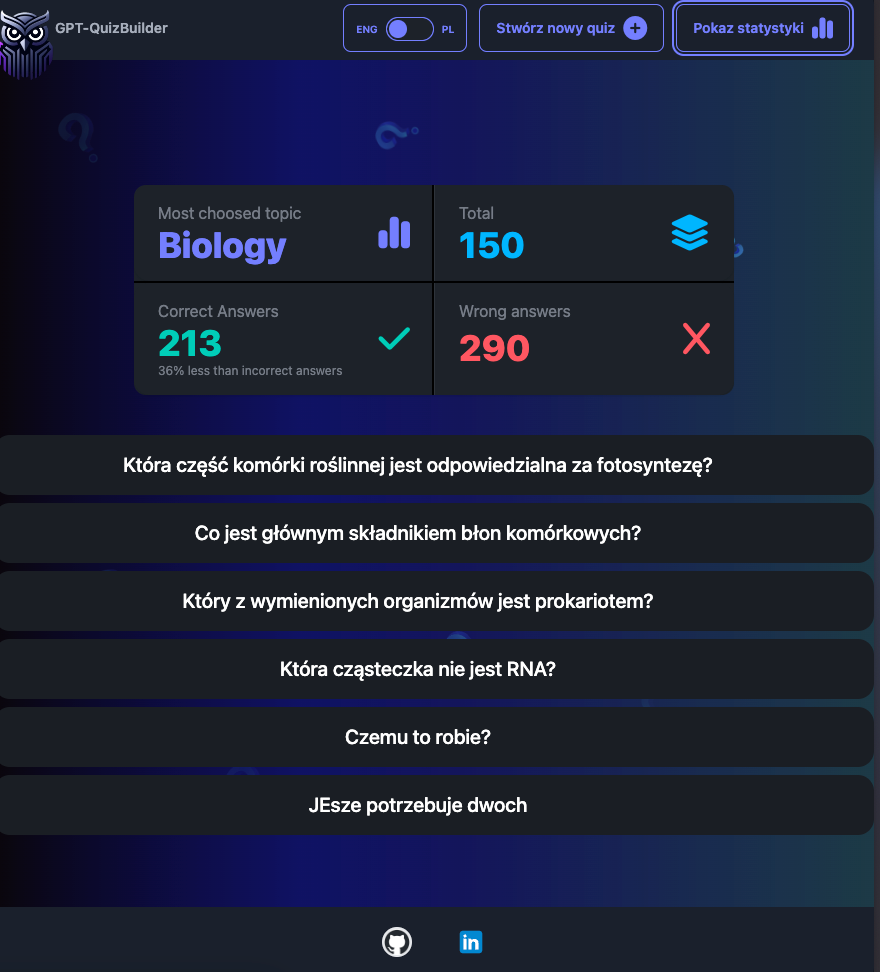
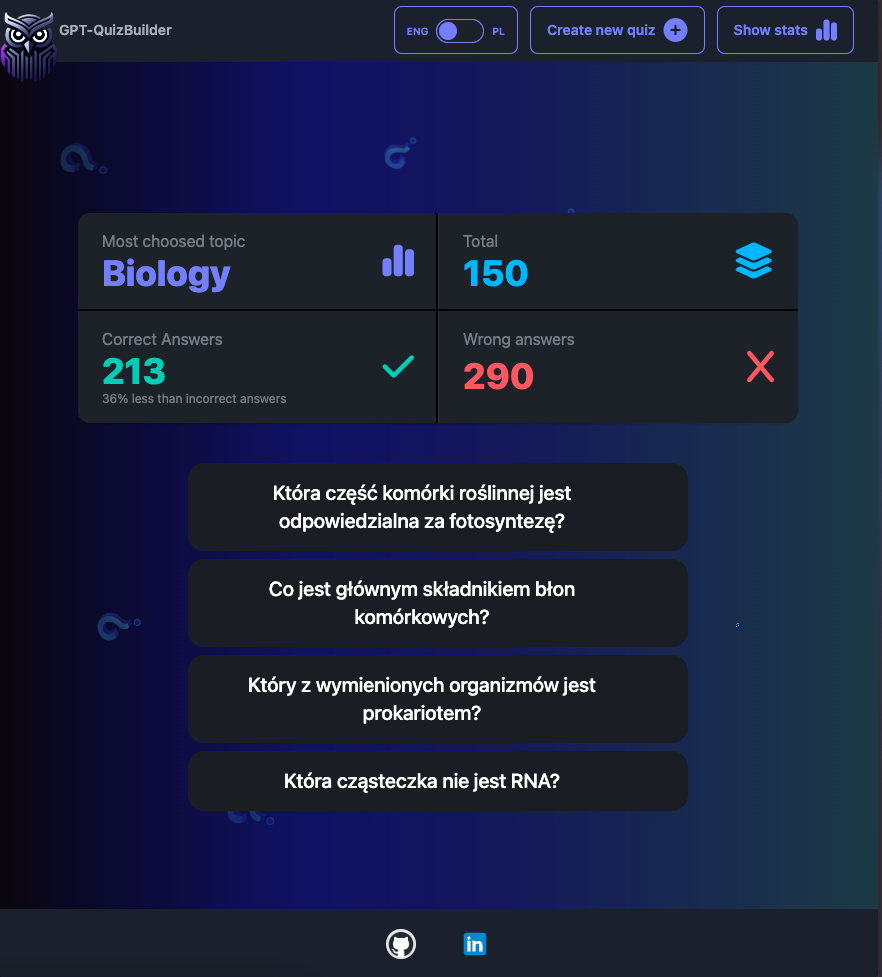
updt readme

diff --git a/src/components/Stats/Stats.tsx b/src/components/Stats/Stats.tsx
@@ -28,7 +28,7 @@ export default function Stats() {
   return (
     <div className=" relative mt-[10vh] flex flex-col rounded-xl bg-[#1d232a]">
       <div className="stats stats-vertical shadow md:stats-horizontal">
-        <div className="stat md:w-[300px]">
+        <div className="stat md:w-[360px]">
           <div className="stat-figure text-4xl text-primary">
             <i className="fa-solid fa-chart-simple"></i>
           </div>
@@ -36,7 +36,7 @@ export default function Stats() {
           <div className="stat-value text-primary">{stats[0].mostChoosedTopic}</div>
         </div>
 
-        <div className="stat md:w-[300px]">
+        <div className="stat md:w-[360px]">
           <div className="stat-figure text-4xl text-info">
             <i className="fa-solid fa-layer-group"></i>
           </div>
@@ -49,7 +49,7 @@ export default function Stats() {
       <div className="rotate-90deg absolute right-[50%] hidden h-[100%] w-[2px] bg-[black] md:block "></div>
 
       <div className="stats stats-vertical shadow md:stats-horizontal">
-        <div className="stat md:w-[300px] ">
+        <div className="stat md:w-[360px] ">
           <div className="stat-figure text-4xl text-accent">
             <i className="fa-solid fa-check"></i>
           </div>
@@ -59,7 +59,7 @@ export default function Stats() {
             {difference}% {isLessThanCorrect ? t(`global:nav:correctDescr2`) : t(`global:nav:correctDescr`)}
           </div>
         </div>
-        <div className="stat w-[300px]">
+        <div className="stat w-[360px]">
           <div className="stat-figure text-4xl text-error">
             <i className="fa-solid fa-x"></i>
           </div>

diff --git a/src/components/SavedQuestionsList/SavedQuestionsList.tsx b/src/components/SavedQuestionsList/SavedQuestionsList.tsx
@@ -30,20 +30,11 @@ Zatem w kontekście biologicznym, prokarioty można porównać do podstawowych b
 
 Można to porównać do różnicy między książką a listonoszem. DNA to jak książka, która przechowuje całą historię (informacje genetyczne). RNA natomiast to listonosz, który dostarcza fragmenty tej historii (informacje genetyczne z DNA) tam, gdzie są aktualnie potrzebne (do rybosomów do produkcji białek).`,
     },
-    {
-      question: 'Czemu to robie?',
-      description:
-        ' Lorem ipsum dolor sit amet consectetur adipisicing elit. Eum perferendis laudantium et assumenda iusto eveniet saepe facilis earum. Excepturi accusantium tenetur, commodi magnam fugit, officia incidunt mollitia, a labore eum maxime. Perspiciatis nihil optio illum explicabo quo magnam iure iste ipsa, alias id sed, nostrum maiores! Obcaecati aliquid quam iusto?',
-    },
-    {
-      question: 'JEsze potrzebuje dwoch',
-      description:
-        ' Lorem ipsum dolor sit amet consectetur adipisicing elit. Eum perferendis laudantium et assumenda iusto eveniet saepe facilis earum. Excepturi accusantium tenetur, commodi magnam fugit, officia incidunt mollitia, a labore eum maxime. Perspiciatis nihil optio illum explicabo quo magnam iure iste ipsa, alias id sed, nostrum maiores! Obcaecati aliquid quam iusto?',
-    },
+   
   ]);
 
   return (
-    <div className="my-10 flex max-w-[1000px] flex-col gap-2">
+    <div className="my-10 flex max-w-[500px] flex-col gap-2">
       {savedQuestions.map((question, key) => (
         <div key={key} className="collapse bg-base-200">
           <input type="checkbox" />

diff --git a/src/components/Nav/Nav.tsx b/src/components/Nav/Nav.tsx
@@ -1,13 +1,13 @@
 import { Wrapper } from '../MainLayout/Wrapper/Wrapper';
 import { NavLink } from 'react-router-dom';
-// import { useTranslation } from 'react-i18next';
+import { useTranslation } from 'react-i18next';
 import { LanguageSwitcher } from './LanguageSwitcher/LanguageSwitcher';
 import LOGO_ICON from '../../../public/gptquizlogo.png';
 import Hamburger from './Hamburger/Hamburger';
 import { useState } from 'react';
 
 export const Nav = () => {
-  // const { t } = useTranslation();
+  const { t } = useTranslation();
   const [isActive, setIsActive] = useState(false);
 
   return (
@@ -34,11 +34,11 @@ export const Nav = () => {
 
               <NavLink className="btn btn-outline btn-primary ml-3 mr-3 text-center" to={'form'}>
                 {' '}
-                Stwórz nowy quiz <i className="fa-solid fa-circle-plus text-2xl"></i>
+                {t('global:nav:createNewQuiz')} <i className="fa-solid fa-circle-plus text-2xl"></i>
               </NavLink>
               <NavLink className="btn btn-outline btn-primary text-center" to={'stats'}>
                 {' '}
-                Pokaz statystyki <i className="fa-solid fa-chart-simple text-2xl"></i>
+                {t('global:nav:showStats')} <i className="fa-solid fa-chart-simple text-2xl"></i>
               </NavLink>
             </div>
             <div className="md:hidden">

diff --git a/readme.md b/readme.md
@@ -1,6 +1,14 @@
-## GPT-QuizBuilder <img width="50%" alt="logo" src="./public/gptquizlogo.png">
+## GPT-QuizBuilder 
 
-**In progress:** ![74%](https://progress-bar.dev/74)
+<table>
+  <tr>
+    <td><img width="150" alt="logo" src="./public/gptquizlogo.png"></td>
+    <td>
+      <p>GPT-QuizBuilder is a project aimed at creating personalized quizzes for educational purposes by connecting to the OpenAI API. Users will be able to select the topic, duration, and difficulty level of the quiz.</p>
+      <p><strong>In progress:</strong> ![74%](https://progress-bar.dev/74)</p>
+    </td>
+  </tr>
+</table>
 
 ## Main menu
 
@@ -8,23 +16,26 @@
   
 ## How it works
 **Provide quiz topic & choose difficulty level**
+
 <img width="100%" alt="quizCreator" src="./public/image-1.png">
 
 **Answer questions by choosing one option**
+
 <img width="100%" alt="quiz" src="./public/image-4.png">
 
 **Get extra explanations if you don't understand a question or answer**
+
 <img width="100%" alt="explanation" src="./public/image-3.png">
 
 **Check all stats and review saved questions with explanations**
+
 <img width="100%" alt="summary" src="./public/image-2.png">
 
 ## How to Use
 
-<a href="https://gpt-quiz-builder.vercel.app/">LIVE </a>
+<a href="https://gpt-quiz-builder.vercel.app/">LIVE DEMO </a>
 
 
-GPT-QuizBuilder is a project aimed at creating personalized quizzes for educational purposes by connecting to the OpenAI API. Users will be able to select the topic, duration, and difficulty level of the quiz.
 
 ## Features
 
